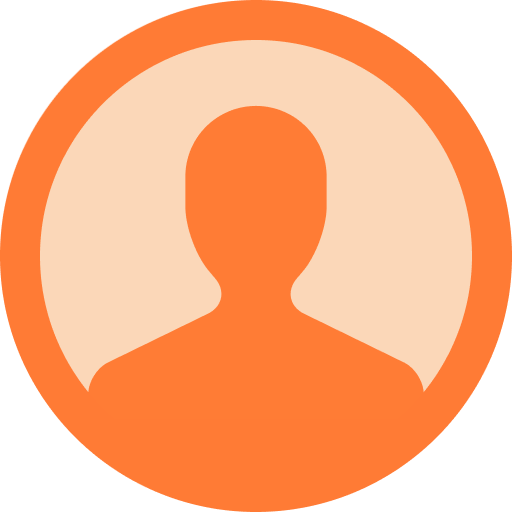
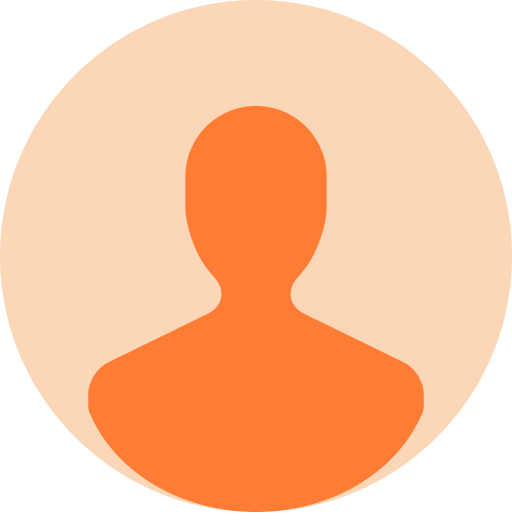
Small Changes
- Changes Recent Absent Layout
- Changes default profile to borderless
- Profile can be accessed by pressing profile picture in home user

diff --git a/lib/pages/Home/widget/header_page.dart b/lib/pages/Home/widget/header_page.dart
@@ -1,10 +1,10 @@
 import 'package:flutter/material.dart';
 import 'package:sadewa_fe/constants/sdw_colors.dart';
-import 'package:sadewa_fe/constants/sdw_sizes.dart';
 import 'package:get/get.dart';
 import 'package:sadewa_fe/controllers/home_controller.dart';
 import 'package:sadewa_fe/constants/urls.dart';
 import 'package:sadewa_fe/pages/Effect/box_shadow.dart';
+import 'package:sadewa_fe/routes/app_routes.dart';
 
 class HeaderPage extends StatelessWidget {
   final double width;
@@ -64,6 +64,9 @@ class HeaderPage extends StatelessWidget {
               ],
             ),
           ),
+          GestureDetector(
+            onTap: () => Get.toNamed(Routes.profile),
+            child: 
           Container(
             width: width * 0.22,
             height: width * 0.22,
@@ -83,6 +86,7 @@ class HeaderPage extends StatelessWidget {
               border: Border.all(color: SDWcolors.bgL, width: 3),
             ),
           ),
+          )
         ],
       ),
     );

diff --git a/lib/pages/Home/widget/recent_absent.dart b/lib/pages/Home/widget/recent_absent.dart
@@ -51,9 +51,9 @@ class RecentAbsent extends StatelessWidget {
               alignment: Alignment.topCenter,
               children: [
                 Container(
-                  height: height * 0.003,
+                  height: height * 0.0032,
                   width: width * 0.8,
-                  margin: EdgeInsets.only(top: 20),
+                  margin: EdgeInsets.only(top: height * 0.0184),
                   decoration: BoxDecoration(
                     color: SDWcolors.textD,
                     borderRadius: BorderRadius.circular(20),
@@ -95,7 +95,7 @@ class RecentAbsent extends StatelessWidget {
                           break;
                       }
                       return Container(
-                        margin: EdgeInsets.only(left: 10),
+                        margin: EdgeInsets.only(left: 5, right: 5),
                         child: Column(
                           children: [
                             Container(

diff --git a/lib/constants/urls.dart b/lib/constants/urls.dart
@@ -2,7 +2,7 @@ class AppUrls {
   AppUrls._();
 
   // Base URL
-  static const String usedUrl = emulator;
+  static const String usedUrl = ngrok;
 
   static const String baseApiUrl = '${usedUrl}api';
   static const String imgProfileUrl = '${usedUrl}storage/profile_pics/';
